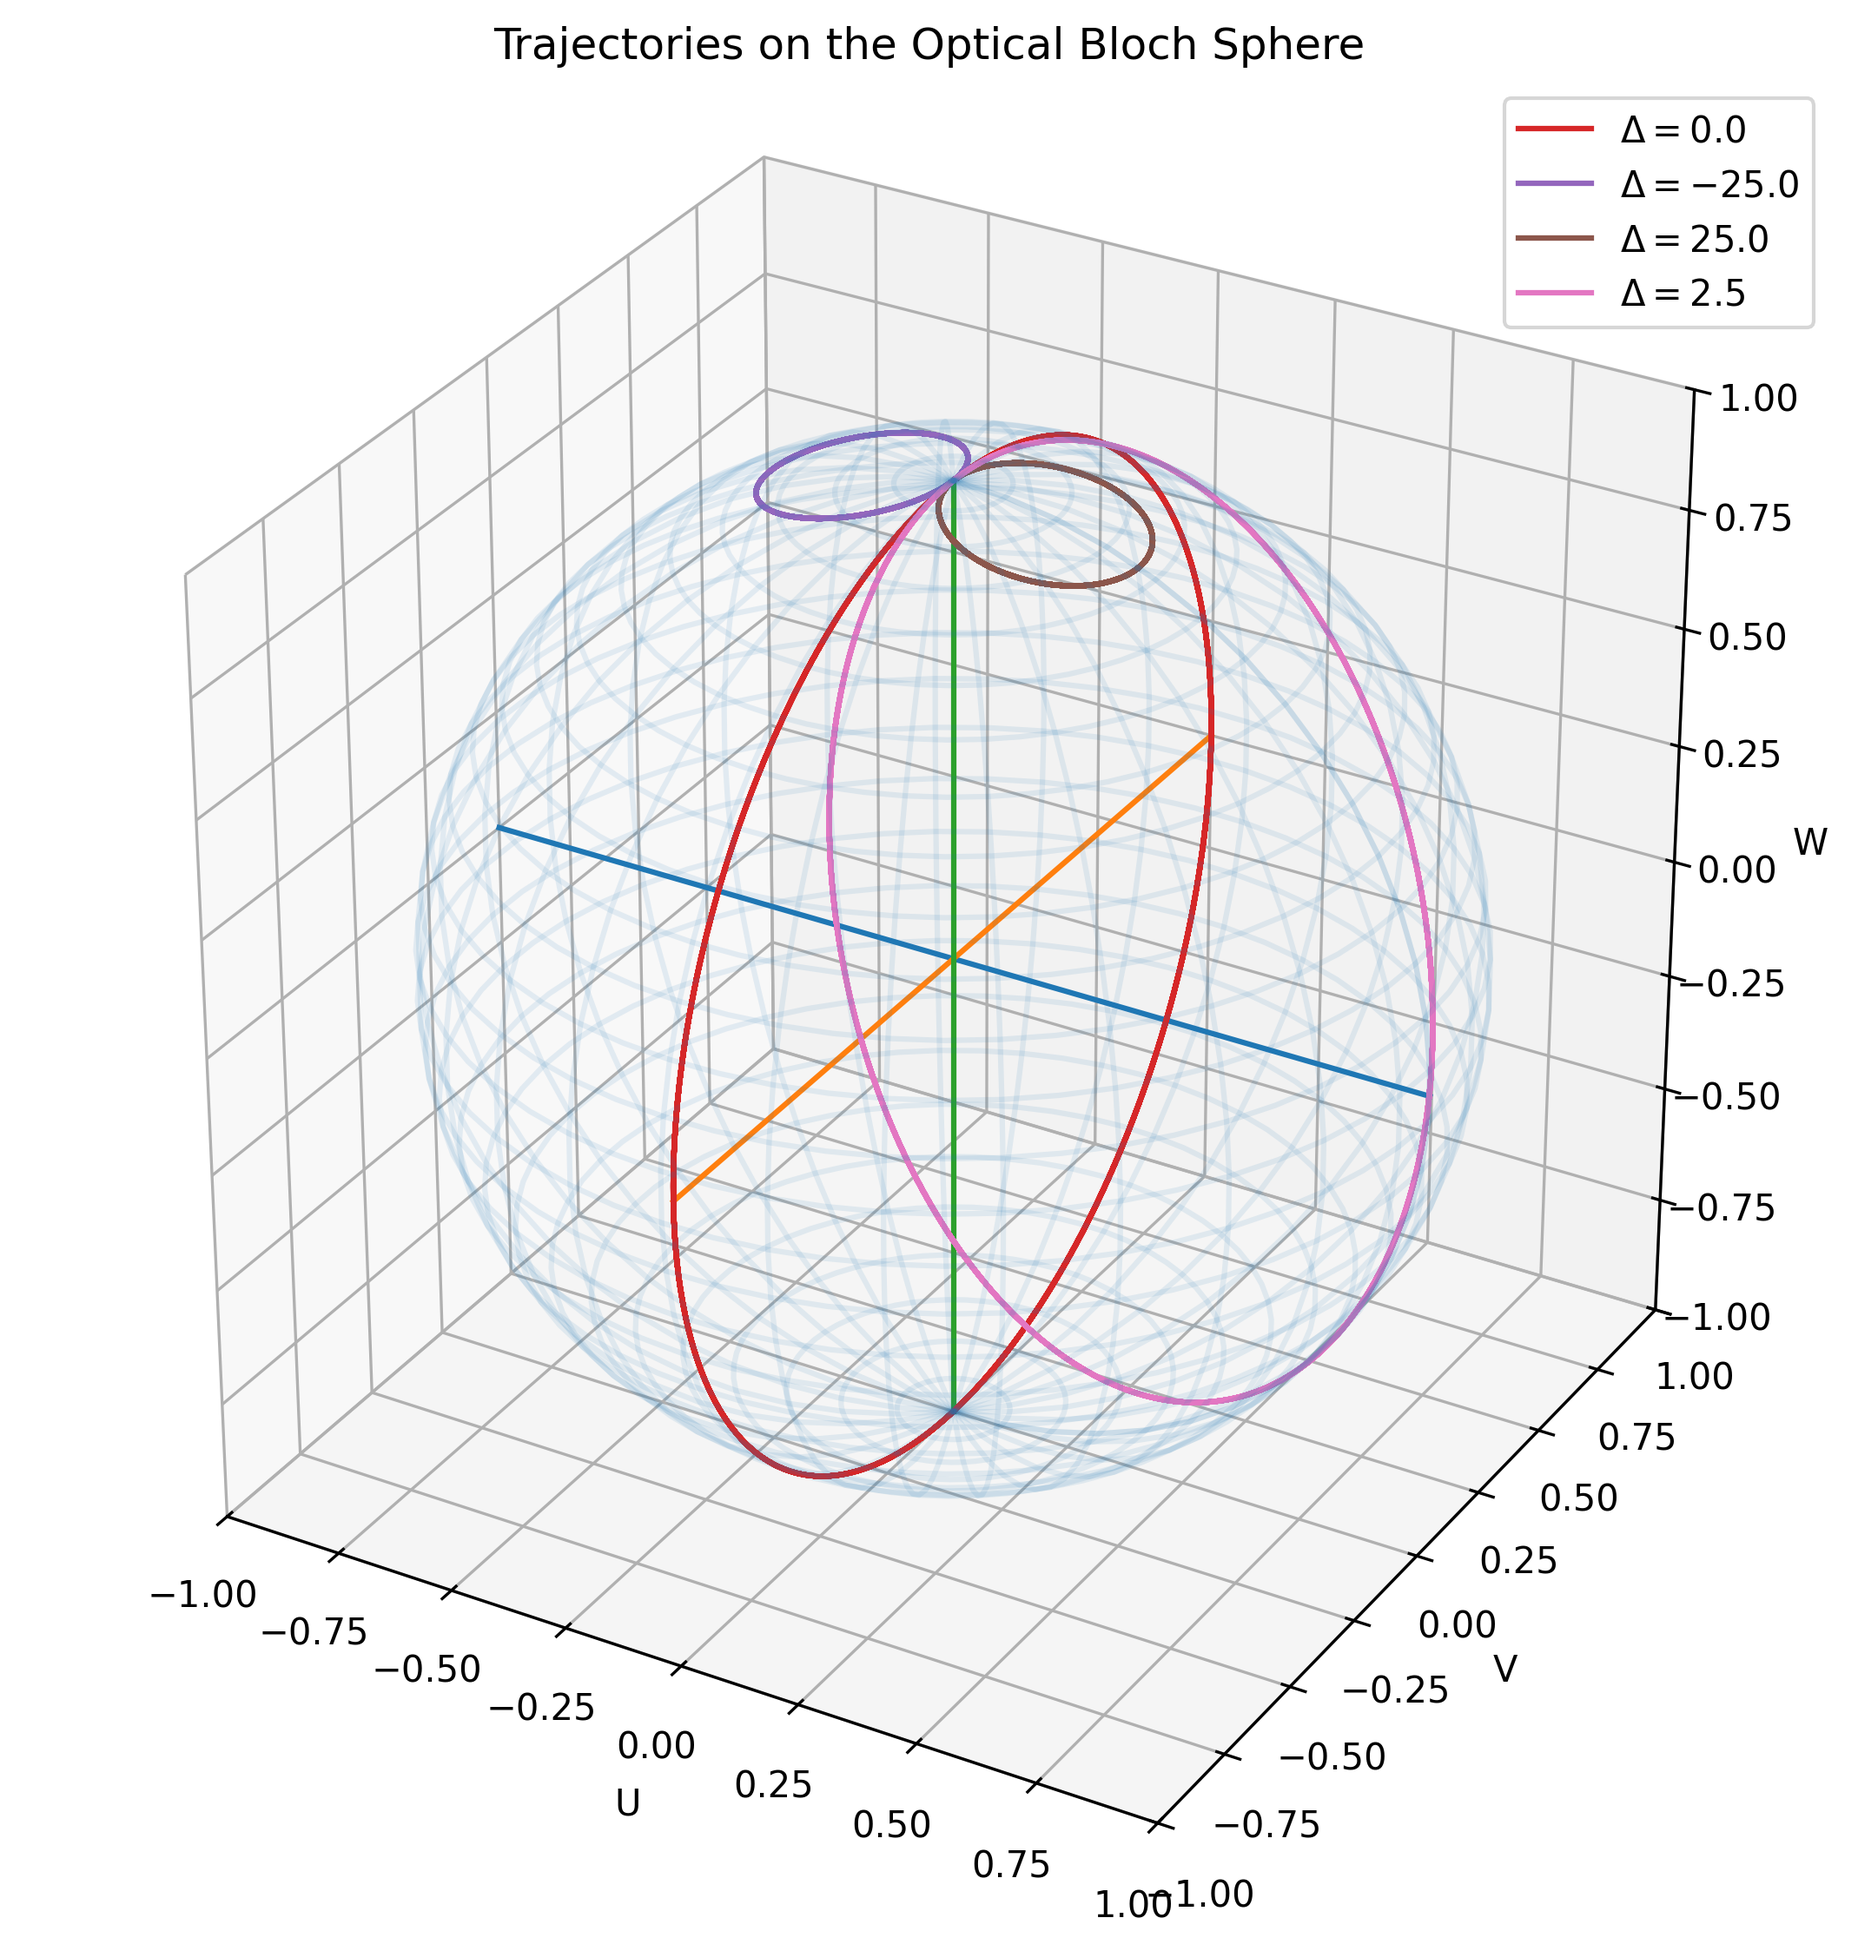
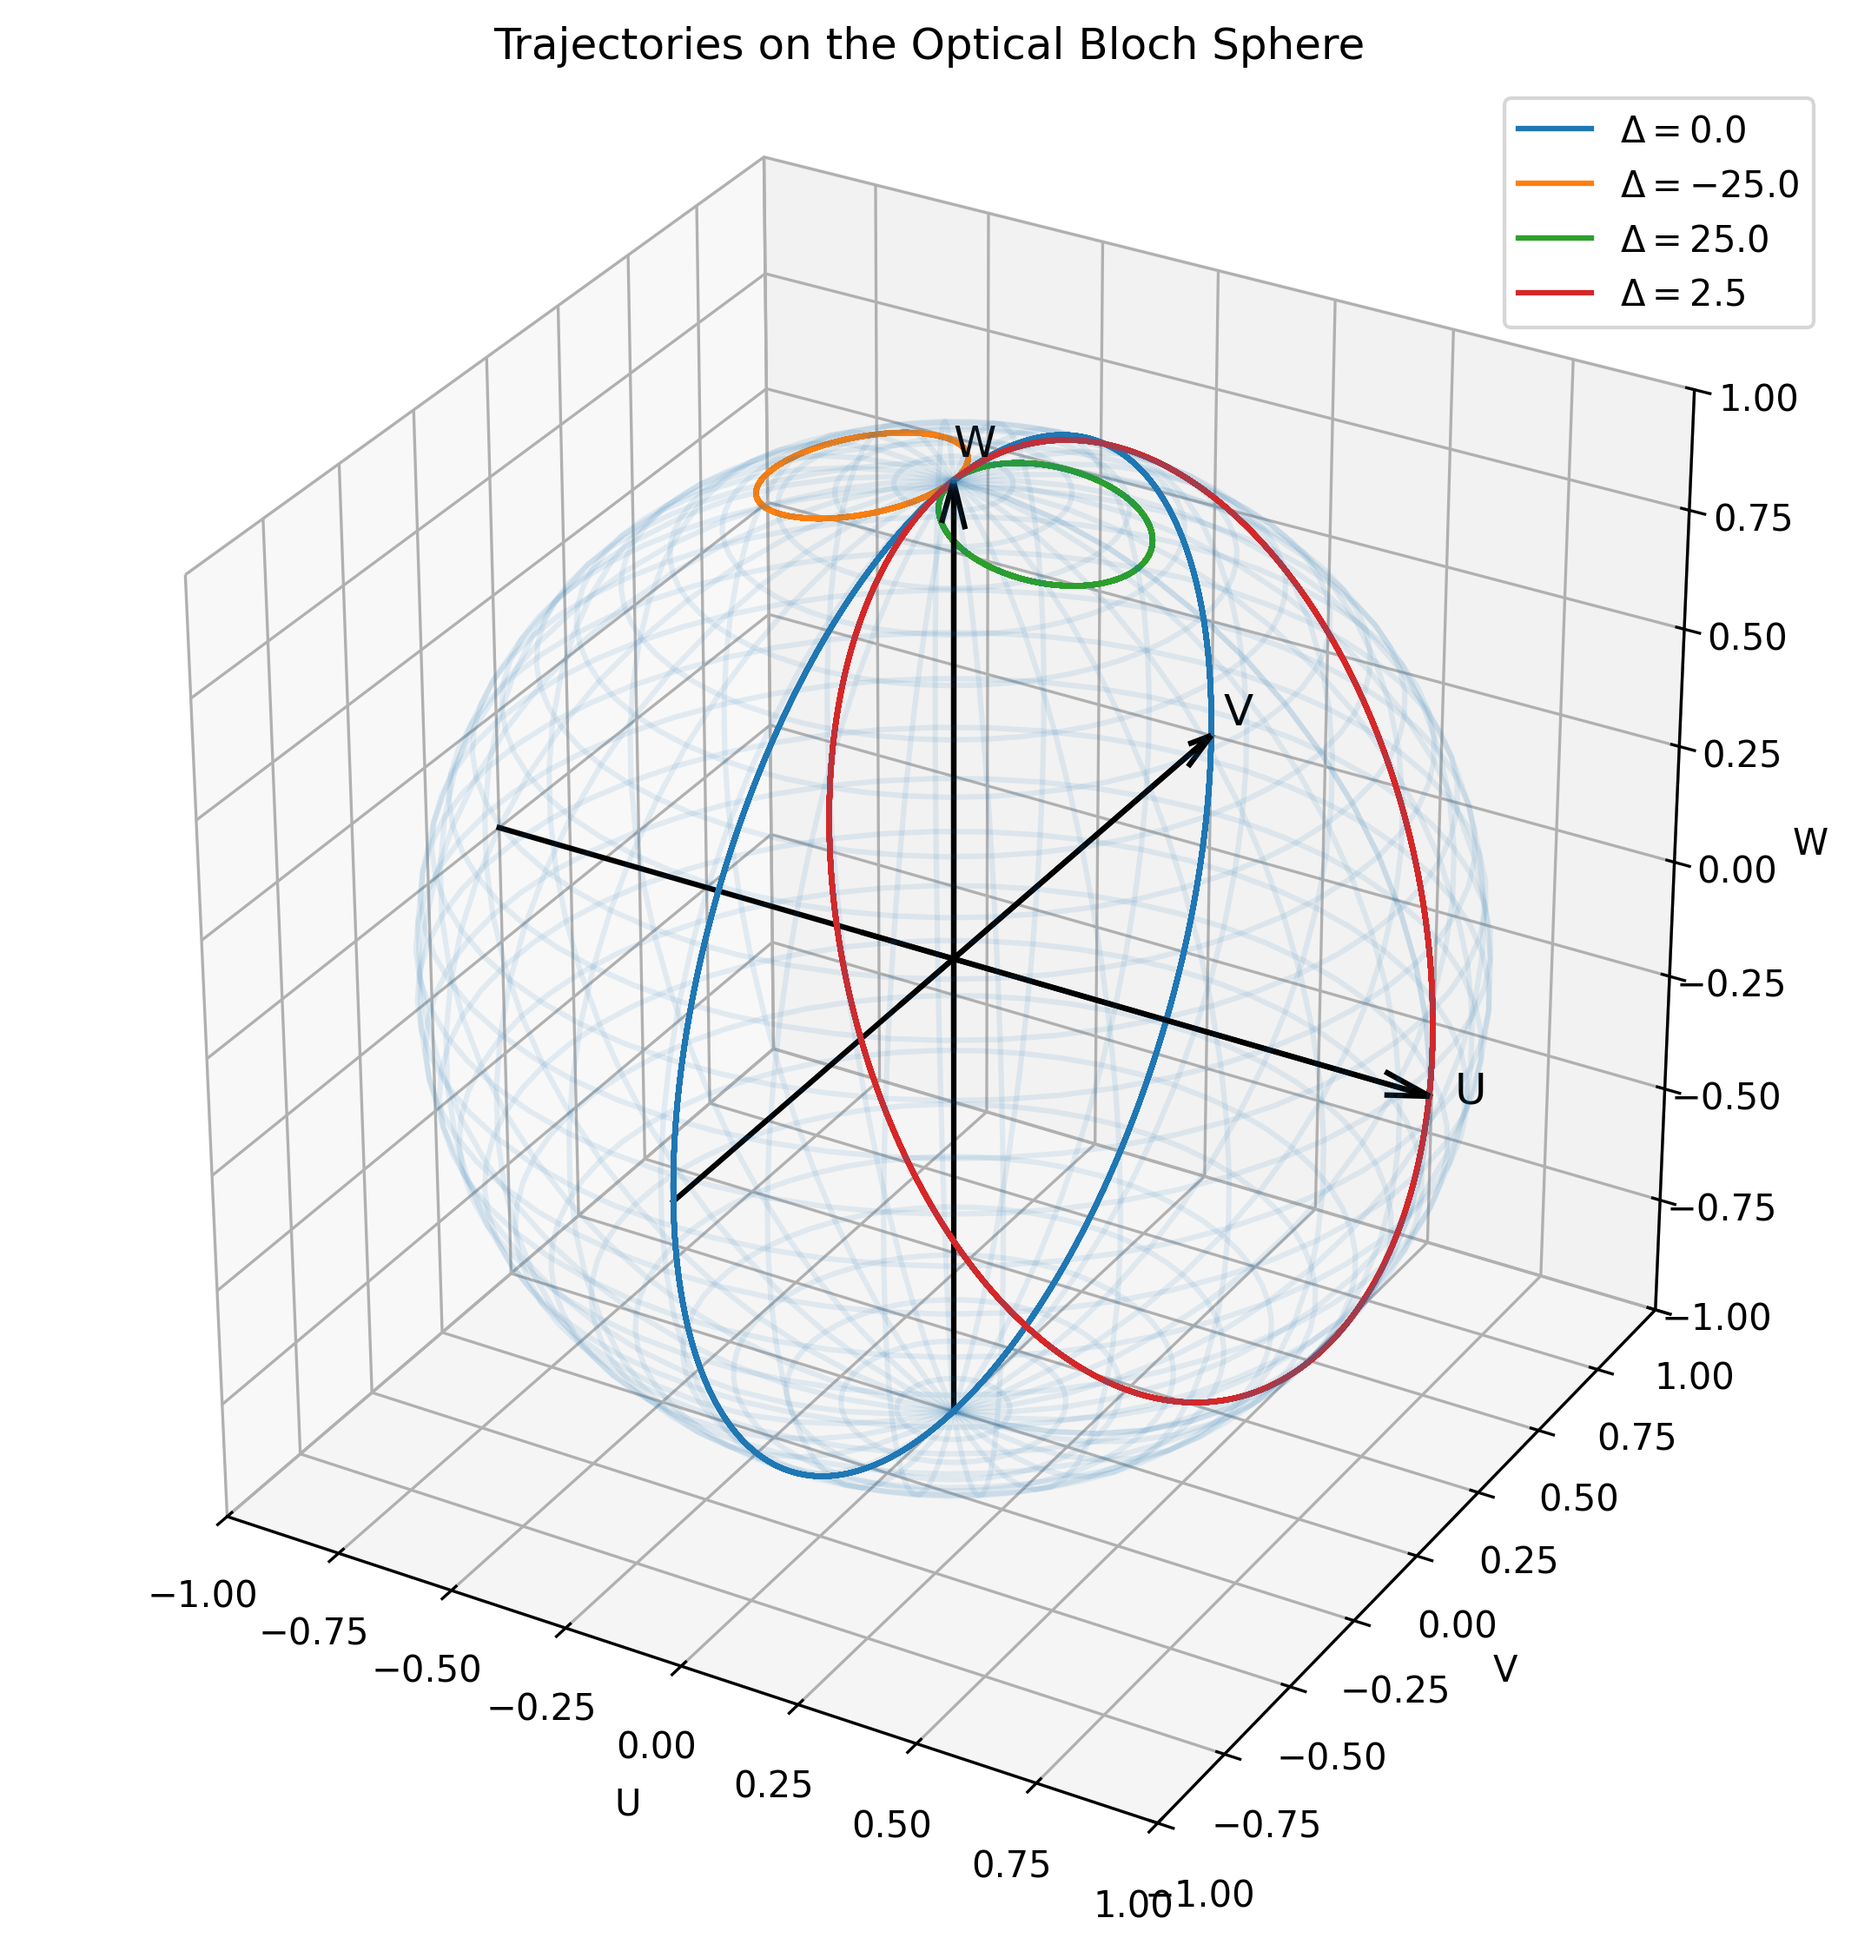
bloch sphere 1.c

diff --git a/Light_Matter_Interaction_Numeric_assignment.py b/Light_Matter_Interaction_Numeric_assignment.py
@@ -18,12 +18,11 @@ pi = np.pi
 # ---------------------------------- #
 # Define the ODEs 
 # ---------------------------------- #
-def schrodinger_rabi(t, state, delta, OmegaR0):
+def schrodinger(t, state, Delta0, OmegaR0):
     Cg, Ce = state
 
-    # can write this as matrix?????
-    dCg_dt= -(1j/2) *((-delta * Cg) + (OmegaR0 * Ce))
-    dCe_dt= -(1j/2) *((delta * Ce) + (OmegaR0.conjugate() * Cg))
+    dCg_dt= -(1j/2) *((-Delta0 * Cg) + (OmegaR0 * Ce))
+    dCe_dt= -(1j/2) *((Delta0 * Ce) + (OmegaR0.conjugate() * Cg))
 
     return [dCg_dt, dCe_dt]
 
@@ -44,7 +43,7 @@ t_eval = np.linspace(t_span[0], t_span[1], 3000)
 delta_cases = [0.0, 5.0]
 
 for delta in delta_cases:
-    sol = solve_ivp(schrodinger_rabi, t_span, initial_state, args=(delta, OmegaR0), t_eval=t_eval, rtol=1e-9, atol=1e-11)
+    sol = solve_ivp(schrodinger, t_span, initial_state, args=(delta, OmegaR0), t_eval=t_eval, rtol=1e-9, atol=1e-11)
           
     t = sol.t
     Cg = sol.y[0]
@@ -72,96 +71,96 @@ for delta in delta_cases:
     plt.show()
     
 
-# ---------------------------------- #
-# Scan detuning
-# ---------------------------------- #
+# # ---------------------------------- #
+# # Scan detuning
+# # ---------------------------------- #
 
-delta_values = np.linspace(-5 * OmegaR0, 5 * OmegaR0, 2000)
+# delta_values = np.linspace(-5 * OmegaR0, 5 * OmegaR0, 2000)
 
-Pe_matrix = np.zeros((len(delta_values), len(t_eval)))
+# Pe_matrix = np.zeros((len(delta_values), len(t_eval)))
 
-for i, delta in enumerate(delta_values):
-    sol = solve_ivp(schrodinger_rabi, t_span, initial_state, args=(delta, OmegaR0), t_eval=t_eval, rtol=1e-9, atol=1e-11)
+# for i, delta in enumerate(delta_values):
+#     sol = solve_ivp(schrodinger, t_span, initial_state, args=(delta, OmegaR0), t_eval=t_eval, rtol=1e-9, atol=1e-11)
 
-    t = sol.t
-    Ce = sol.y[1]
-    Pe = np.abs(Ce)**2
+#     t = sol.t
+#     Ce = sol.y[1]
+#     Pe = np.abs(Ce)**2
 
-    Pe_matrix[i, :] = Pe
+#     Pe_matrix[i, :] = Pe
 
-# ---------------------------------- #
-# Plot Pe matrix
-# ---------------------------------- #
+# # ---------------------------------- #
+# # Plot Pe matrix
+# # ---------------------------------- #
 
-plt.figure(figsize=(10,6))
+# plt.figure(figsize=(10,6))
 
-plt.imshow(Pe_matrix, aspect="auto", origin="lower", extent=[t_eval[0], t_eval[-1], delta_values[0], delta_values[-1]])
-plt.colorbar(label=r"$|C_e|^2$")
-plt.xlabel("Time")
-plt.ylabel(r"Detuning $\Delta$")
-plt.savefig('output Pe Matrix')
-plt.show()
+# plt.imshow(Pe_matrix, aspect="auto", origin="lower", extent=[t_eval[0], t_eval[-1], delta_values[0], delta_values[-1]])
+# plt.colorbar(label=r"$|C_e|^2$")
+# plt.xlabel("Time")
+# plt.ylabel(r"Detuning $\Delta$")
+# plt.savefig('output Pe Matrix')
+# plt.show()
 
-# ---------------------------------- #
-# x-axis cross sections
-# ---------------------------------- #
+# # ---------------------------------- #
+# # x-axis cross sections
+# # ---------------------------------- #
 
-selected_deltas = [-5 * OmegaR0, -2 * OmegaR0, 0, 2 * OmegaR0, 5 * OmegaR0]
+# selected_deltas = [-5 * OmegaR0, -2 * OmegaR0, 0, 2 * OmegaR0, 5 * OmegaR0]
 
-fig, axes = plt.subplots(2, 3, figsize=(15, 8))
+# fig, axes = plt.subplots(2, 3, figsize=(15, 8))
 
-axes = axes.flatten()
+# axes = axes.flatten()
 
-for ax, delta_target in zip(axes, selected_deltas):
+# for ax, delta_target in zip(axes, selected_deltas):
 
-    index = np.argmin(np.abs(delta_values - delta_target))
+#     index = np.argmin(np.abs(delta_values - delta_target))
 
-    ax.plot(t_eval, Pe_matrix[index, :])
-    ax.set_title(rf"$\Delta={delta_values[index]:.1f}$")
-    ax.set_xlabel("Time")
-    ax.set_ylabel(r"$P_e$")
+#     ax.plot(t_eval, Pe_matrix[index, :])
+#     ax.set_title(rf"$\Delta={delta_values[index]:.1f}$")
+#     ax.set_xlabel("Time")
+#     ax.set_ylabel(r"$P_e$")
 
-# if subplot empty
-for ax in axes[len(selected_deltas):]:
-    ax.axis("off")
+# # if subplot empty
+# for ax in axes[len(selected_deltas):]:
+#     ax.axis("off")
 
-plt.tight_layout()
-plt.savefig("Pe_cross_sections_delta_x.png", dpi=300, bbox_inches="tight")
-plt.show()
+# plt.tight_layout()
+# plt.savefig("Pe_cross_sections_delta_x.png", dpi=300, bbox_inches="tight")
+# plt.show()
 
-# ---------------------------------- #
-# x-axis cross sections
-# ---------------------------------- #
+# # ---------------------------------- #
+# # y-axis cross sections
+# # ---------------------------------- #
 
-selected_times = [0, 2, 4, 6, 8]
+# selected_times = [0, 2, 4, 6, 8]
 
-plt.figure(figsize=(10,5))
+# plt.figure(figsize=(10,5))
 
-fig, axes = plt.subplots(2, 3, figsize=(15, 8))
+# fig, axes = plt.subplots(2, 3, figsize=(15, 8))
 
-axes = axes.flatten()
+# axes = axes.flatten()
 
-for ax, t_target in zip(axes, selected_times):
+# for ax, t_target in zip(axes, selected_times):
 
-    index = np.argmin(np.abs(t_eval - t_target))
+#     index = np.argmin(np.abs(t_eval - t_target))
 
-    ax.plot(delta_values, Pe_matrix[:, index])
-    ax.set_title(rf"$t={t_eval[index]:.1f}$")
-    ax.set_xlabel(r"Detuning $\Delta$")
-    ax.set_ylabel(r"$|C_e|^2$")
+#     ax.plot(delta_values, Pe_matrix[:, index])
+#     ax.set_title(rf"$t={t_eval[index]:.1f}$")
+#     ax.set_xlabel(r"Detuning $\Delta$")
+#     ax.set_ylabel(r"$|C_e|^2$")
 
-# if subplot empty
-for ax in axes[len(selected_deltas):]:
-    ax.axis("off")
+# # if subplot empty
+# for ax in axes[len(selected_deltas):]:
+#     ax.axis("off")
 
-plt.tight_layout()
-plt.savefig("Pe_cross_sections_times_y.png", dpi=300, bbox_inches="tight")
-plt.show()
+# plt.tight_layout()
+# plt.savefig("Pe_cross_sections_times_y.png", dpi=300, bbox_inches="tight")
+# plt.show()
 
 
 
 # ------------------------------------- #
-# 1. b. Optical Bloch Sphere Parameters 
+# 1. b. Optical Bloch Sphere  
 # ------------------------------------- #
 
 # need to solve the equation and get to each solution the Ce(t) Cg(t)
@@ -183,14 +182,14 @@ z = np.cos(theta)
 ax.plot_wireframe(x, y, z, alpha=0.1)
 
 # coordinate axes
-ax.plot([-1, 1], [0, 0], [0, 0])
-ax.plot([0, 0], [-1, 1], [0, 0])
-ax.plot([0, 0], [0, 0], [-1, 1])
+ax.plot([-1, 1], [0, 0], [0, 0], color='black')
+ax.plot([0, 0], [-1, 1], [0, 0], color='black')
+ax.plot([0, 0], [0, 0], [-1, 1], color='black')
 
 # plot several trajectories
 
 for delta in selected_deltas_bloch:
-    sol = solve_ivp(schrodinger_rabi, t_span, initial_state, args=(delta, OmegaR0), t_eval=t_eval, rtol=1e-9, atol=1e-11)
+    sol = solve_ivp(schrodinger, t_span, initial_state, args=(delta, OmegaR0), t_eval=t_eval, rtol=1e-9, atol=1e-11)
 
     Cg = sol.y[0]
     Ce = sol.y[1]
@@ -218,9 +217,197 @@ ax.set_box_aspect([1, 1, 1])
 
 ax.set_title("Trajectories on the Optical Bloch Sphere")
 ax.legend()
+
+# Custom axes
+ax.quiver(1.0-1.2, 0, 0, 1.2, 0, 0, arrow_length_ratio=0.08, color='black')
+ax.quiver(0, 1.0-1.2, 0, 0, 1.2, 0, arrow_length_ratio=0.08, color='black')
+ax.quiver(0, 0, 1.0-1.2, 0, 0, 1.2, arrow_length_ratio=0.08, color='black')
+
+# Labels
+ax.text(1.0 + 0.05, 0, 0, 'U', fontsize=12)
+ax.text(0, 1.0 + 0.05, 0, 'V', fontsize=12)
+ax.text(0, 0, 1.0 + 0.05, 'W', fontsize=12)
+
 plt.savefig("Bloch_sphere_trajectories.png", dpi=300, bbox_inches="tight")
 plt.show()
 
 
+# ----------------------------------------- #
+# 1. c. Known solutons of two level system 
+# ----------------------------------------- #
+
+
+# ------------------------------------- #
+# Rosen Zender
+# ------------------------------------- #
+
+Omega0 = 5.0
+Delta0 = 2.5
+T = 2 * pi 
+B = 10.0
+
+def sech(x):
+    return 1 / np.cosh(x)
+
+def OmegaRZ(t, T, Omega0):
+    return Omega0 * sech(t / T)
+
+def deltaRZ(t, B, Delta0):
+    return Delta0
+
+# Time range
+t_spanRZ = (-5*T, 5*T)
+t_evalRZ = np.linspace(-5*T, 5*T, 1000)
+
+def schrodingerRZ(t, state, Delta0, Omega0, B, T):
+    Cg, Ce = state
+
+    Omega_t = OmegaRZ(t, T, Omega0)
+    delta_t = deltaRZ(t, B, Delta0)
+
+    dCg_dt= -(1j/2) *((-delta_t * Cg) + (Omega_t * Ce))
+    dCe_dt= -(1j/2) *((delta_t * Ce) + (Omega_t.conjugate() * Cg))
+
+    return [dCg_dt, dCe_dt]
+
+
+sol = solve_ivp(schrodingerRZ, t_spanRZ, initial_state, args=(Delta0, Omega0, B, T), t_eval=t_evalRZ, rtol=1e-9, atol=1e-11)
+
+Cg = sol.y[0]
+Ce = sol.y[1]
+
+U = (Cg.conjugate() * Ce) + (Cg * Ce.conjugate())
+V = 1j * ((Cg.conjugate() * Ce) - (Cg * Ce.conjugate()))
+W = np.abs(Ce)**2 - np.abs(Cg)**2
+
+# U,V should theoretically be real
+U = np.real(U)
+V = np.real(V)
+W = np.real(W)
+
+fig = plt.figure()
+ax = fig.add_subplot(111, projection='3d')
+
+ax.plot_wireframe(x, y, z, alpha=0.1)
+
+# coordinate axes
+ax.plot([-1, 1], [0, 0], [0, 0], color='black')
+ax.plot([0, 0], [-1, 1], [0, 0], color='black')
+ax.plot([0, 0], [0, 0], [-1, 1], color='black')
+
+
+ax.plot(U, V, W, label=rf"$\Delta(t)= \Delta_0, \Omega(t) = \Omega_0 sech(t/T)$")
+
+ax.set_xlabel("U")
+ax.set_ylabel("V")
+ax.set_zlabel("W")
+
+ax.set_xlim([-1, 1])
+ax.set_ylim([-1, 1])
+ax.set_zlim([-1, 1])
+
+ax.set_box_aspect([1, 1, 1])
+
+ax.set_title("Trajectories on the Optical Bloch Sphere Rosen Zender Solution")
+ax.legend()
+
+# Custom axes
+ax.quiver(1.0-1.2, 0, 0, 1.2, 0, 0, arrow_length_ratio=0.08, color='black')
+ax.quiver(0, 1.0-1.2, 0, 0, 1.2, 0, arrow_length_ratio=0.08, color='black')
+ax.quiver(0, 0, 1.0-1.2, 0, 0, 1.2, arrow_length_ratio=0.08, color='black')
+
+# Labels
+ax.text(1.0 + 0.05, 0, 0, 'U', fontsize=12)
+ax.text(0, 1.0 + 0.05, 0, 'V', fontsize=12)
+ax.text(0, 0, 1.0 + 0.05, 'W', fontsize=12)
+
+plt.savefig("Bloch_sphere_trajectories Rosen Zender Solution.png", dpi=300, bbox_inches="tight")
+plt.show()
+
+
+
+# ------------------------------------- #
+# Allen Eberly
+# ------------------------------------- #
+
+Omega0 = 5.0
+Delta0 = 2.5
+T = 2 * pi 
+B = 10.0
+
+def OmegaAE(t, T, Omega0):
+    return Omega0 * sech(t / T)
+
+def deltaAE(t, B, T):
+    return B * np.tanh(t / T)
+
+# Time range
+t_spanAE = (-5*T, 5*T)
+t_evalAE = np.linspace(-5*T, 5*T, 1000)
+
+def schrodingerAE(t, state, Omega0, B, T):
+    Cg, Ce = state
+
+    Omega_t = OmegaAE(t, T, Omega0)
+    delta_t = deltaAE(t, B, T)
+
+    dCg_dt= -(1j/2) *((-delta_t * Cg) + (Omega_t * Ce))
+    dCe_dt= -(1j/2) *((delta_t * Ce) + (Omega_t.conjugate() * Cg))
+
+    return [dCg_dt, dCe_dt]
+
+
+sol = solve_ivp(schrodingerAE, t_spanAE, initial_state, args=(Omega0, B, T), t_eval=t_evalAE, rtol=1e-9, atol=1e-11)
+
+Cg = sol.y[0]
+Ce = sol.y[1]
+
+U = (Cg.conjugate() * Ce) + (Cg * Ce.conjugate())
+V = 1j * ((Cg.conjugate() * Ce) - (Cg * Ce.conjugate()))
+W = np.abs(Ce)**2 - np.abs(Cg)**2
+
+# U,V should theoretically be real
+U = np.real(U)
+V = np.real(V)
+W = np.real(W)
+
+fig = plt.figure()
+ax = fig.add_subplot(111, projection='3d')
+
+ax.plot_wireframe(x, y, z, alpha=0.1)
+
+# coordinate axes
+ax.plot([-1, 1], [0, 0], [0, 0], color='black')
+ax.plot([0, 0], [-1, 1], [0, 0], color='black')
+ax.plot([0, 0], [0, 0], [-1, 1], color='black')
+
+
+ax.plot(U, V, W, label=rf"$\Delta(t)= Btanh(t/T), \Omega(t) = \Omega_0sech(t/T)$")
+
+ax.set_xlabel("U")
+ax.set_ylabel("V")
+ax.set_zlabel("W")
+
+ax.set_xlim([-1, 1])
+ax.set_ylim([-1, 1])
+ax.set_zlim([-1, 1])
+
+ax.set_box_aspect([1, 1, 1])
+
+ax.set_title("Trajectories on the Optical Bloch Sphere Allen Eberly Solution")
+ax.legend()
+
+# Custom axes
+ax.quiver(1.0-1.2, 0, 0, 1.2, 0, 0, arrow_length_ratio=0.08, color='black')
+ax.quiver(0, 1.0-1.2, 0, 0, 1.2, 0, arrow_length_ratio=0.08, color='black')
+ax.quiver(0, 0, 1.0-1.2, 0, 0, 1.2, arrow_length_ratio=0.08, color='black')
+
+# Labels
+ax.text(1.0 + 0.05, 0, 0, 'U', fontsize=12)
+ax.text(0, 1.0 + 0.05, 0, 'V', fontsize=12)
+ax.text(0, 0, 1.0 + 0.05, 'W', fontsize=12)
+
+plt.savefig("Bloch_sphere_trajectories Allen Eberly Solution.png", dpi=300, bbox_inches="tight")
+plt.show()
 
 
